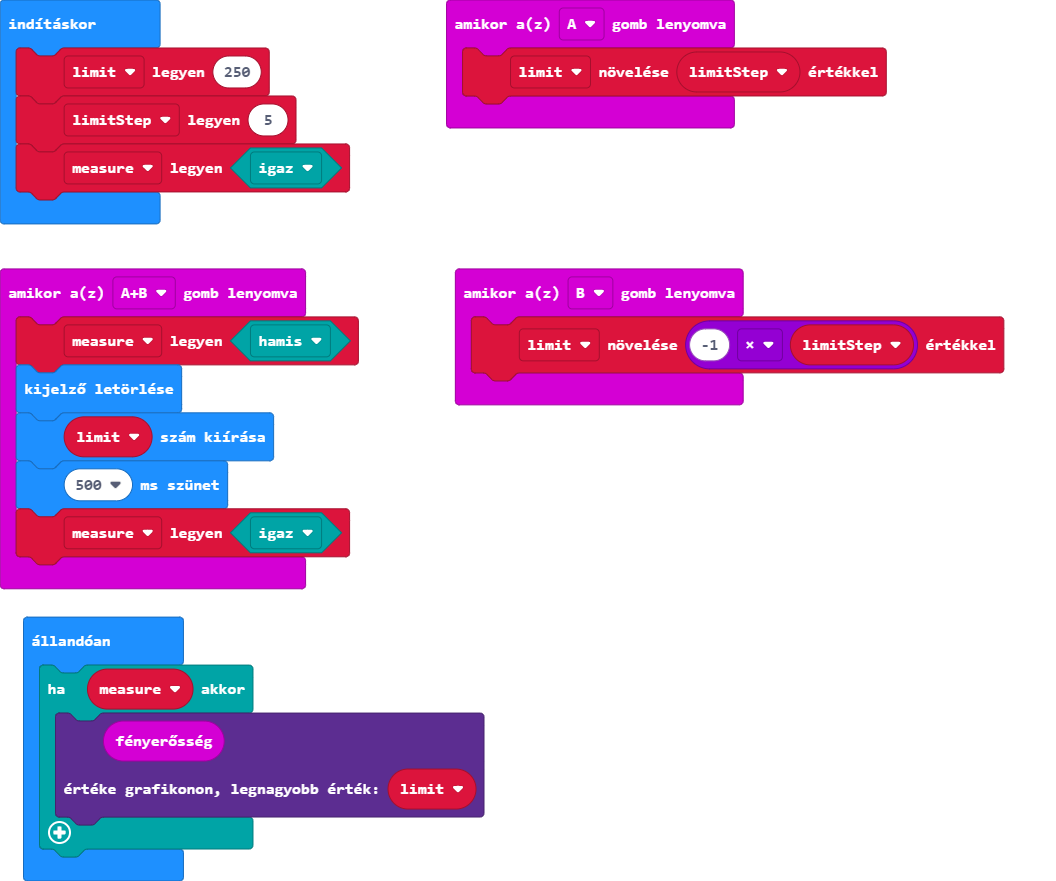
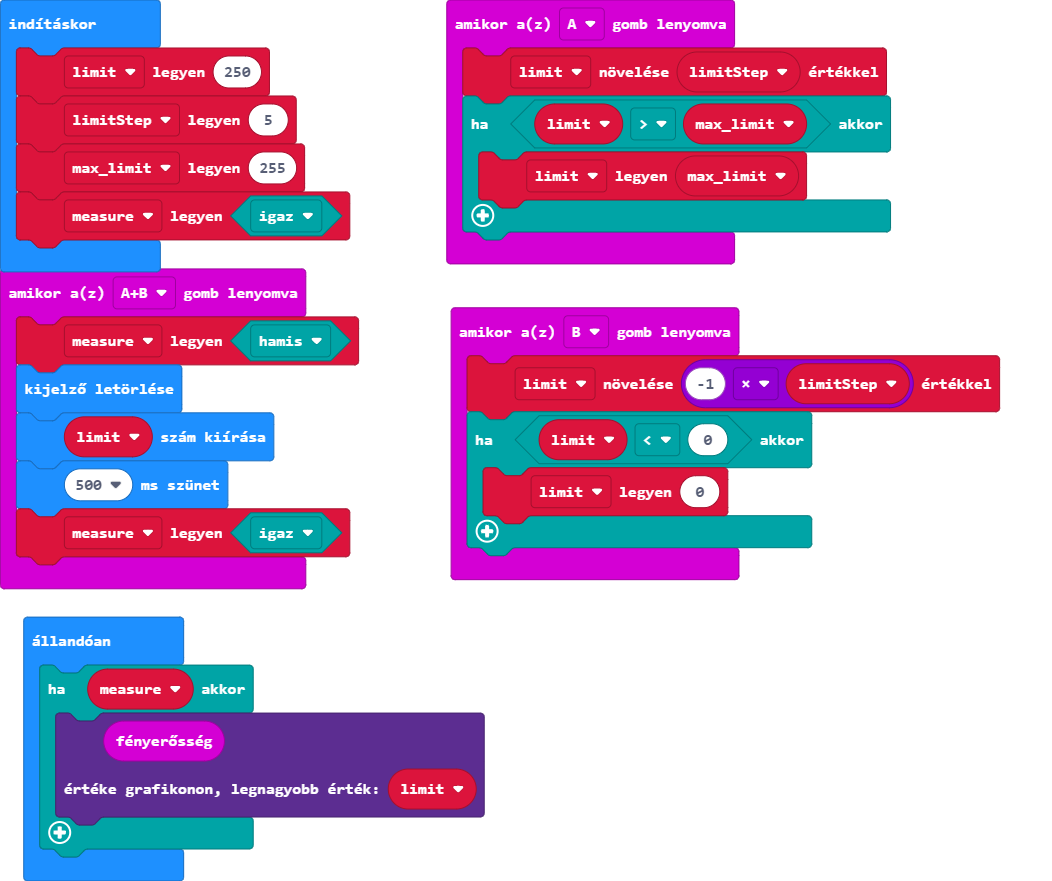
Added maximum and minimum limit correction

diff --git a/main.ts b/main.ts
@@ -1,5 +1,8 @@
 input.onButtonPressed(Button.A, function () {
     limit += limitStep
+    if (limit > max_limit) {
+        limit = max_limit
+    }
 })
 input.onButtonPressed(Button.AB, function () {
     measure = false
@@ -10,12 +13,17 @@ input.onButtonPressed(Button.AB, function () {
 })
 input.onButtonPressed(Button.B, function () {
     limit += -1 * limitStep
+    if (limit < 0) {
+        limit = 0
+    }
 })
 let measure = false
+let max_limit = 0
 let limitStep = 0
 let limit = 0
 limit = 250
 limitStep = 5
+max_limit = 255
 measure = true
 basic.forever(function () {
     if (measure) {
